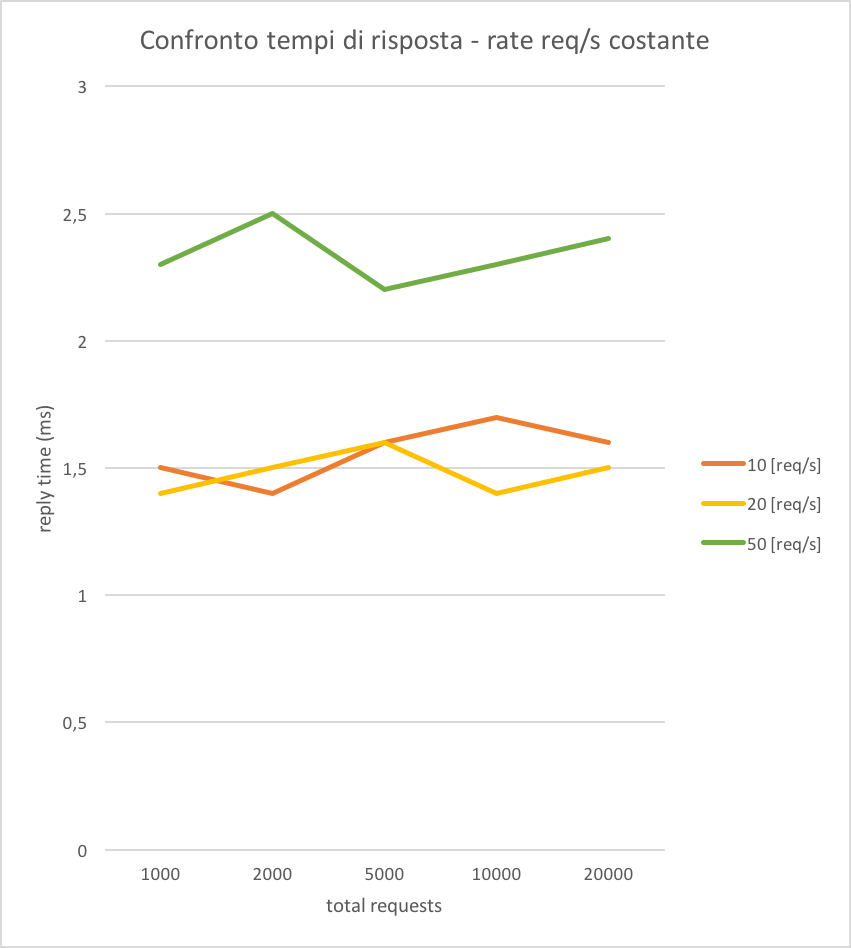
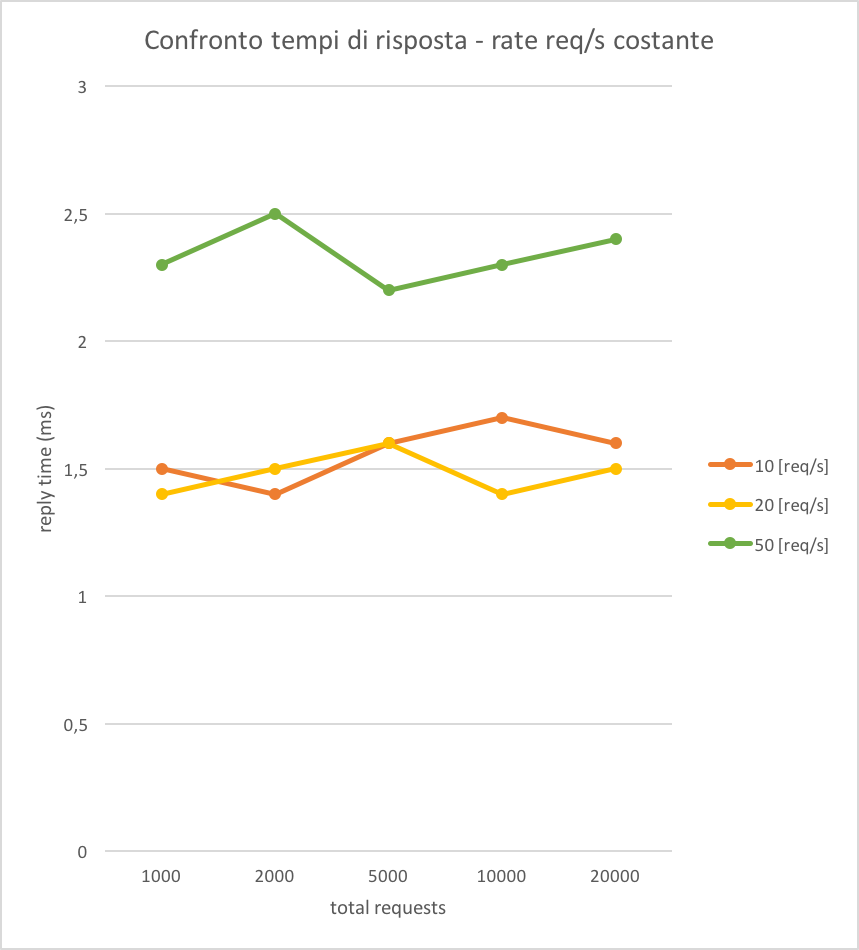
Modified some images: discrete values now are visualized. Also there has been some changes to the log.

diff --git a/code/web_switch/scheduler.c b/code/web_switch/scheduler.c
@@ -18,7 +18,7 @@ ServerPtr get_ready_server(RRobinPtr rrobin) {
 }
 
 ThrowablePtr apache_score(ServerNodePtr server) {
-    /*get_log()->d(TAG_SCHEDULER, "scoring routine...");*/
+    get_log()->d(TAG_SCHEDULER, "scoring routine...");
     // throwable aux variable
     ThrowablePtr throwable;
 
@@ -34,11 +34,11 @@ ThrowablePtr apache_score(ServerNodePtr server) {
     if (throwable->is_an_error(throwable)) {
         server->weight = WEIGHT_DEFAULT;
         server->status = SERVER_STATUS_BROKEN;
-        get_log()->d(TAG_SCHEDULER, "SERVER %s is DOWN", server->host_ip);
+        get_log()->i(TAG_SCHEDULER, "server %s is DOWN", server->host_ip);
         return throwable->thrown(throwable, "apache_score");
     } else {
         server->status = SERVER_STATUS_READY;
-        get_log()->d(TAG_SCHEDULER, "SERVER %s is UP", server->host_ip);
+        get_log()->i(TAG_SCHEDULER, "server %s is UP", server->host_ip);
     }
     
     // ... and parsing result
@@ -63,14 +63,14 @@ ThrowablePtr apache_score(ServerNodePtr server) {
             (WEIGHT_MAXIMUM - WEIGHT_DEFAULT)   /
             (TOTAL_WORKERS  - WEIGHT_DEFAULT)   +   WEIGHT_DEFAULT;
     server->weight = score;
-    /*get_log()->d(TAG_SCHEDULER, "[SCORE: %d (%s)]", score, server->host_ip);*/
+    get_log()->i(TAG_SCHEDULER, "[score: %d (%s)]", score, server->host_ip);
 
     return get_throwable()->create(STATUS_OK, NULL, "apache_score");
 }
 
 void *update_server_routine(void *arg) {
 
-    /*get_log()->d(TAG_SCHEDULER, "Scheduler update routine init...");*/
+    get_log()->d(TAG_SCHEDULER, "Scheduler update routine init...");
 
     // initiliazing throwable
     ThrowablePtr throwable;
@@ -95,7 +95,6 @@ void *update_server_routine(void *arg) {
     ServerNodePtr node;
     for(;;)
         if (time(NULL) - up_since > up_time) {
-            /*get_log()->d(TAG_SCHEDULER, "Scheduler update routine [UPDATING]");*/
             // initializing flag
             proceed = 0;
             // scanning across the serverpool
@@ -105,7 +104,6 @@ void *update_server_routine(void *arg) {
                 throwable = apache_score(node);
                 if (throwable->is_an_error(throwable)) {
                     get_log()->t(throwable);
-                    get_log()->d(TAG_SCHEDULER, "NODE STATUS %d", node->status);
                     if (node->status != SERVER_STATUS_BROKEN)
                         proceed -= 1;
                 }
@@ -118,7 +116,6 @@ void *update_server_routine(void *arg) {
 
             // if routine is not failed...
             if (proceed == 0) {
-                get_log()->d(TAG_SCHEDULER, "SCHEDULING...");
                 throwable = scheduler->rrobin->reset(scheduler->rrobin, scheduler->server_pool, scheduler->server_pool->num_servers);
                 if (throwable->is_an_error(throwable)) {
                     get_log()->t(throwable);
@@ -163,8 +160,6 @@ SchedulerPtr init_scheduler(int awareness_level) {
             get_throwable()->create(STATUS_ERROR, "Memory allocation error!", "init_scheduler");
             return NULL;
         }
-
-        get_log()->d(TAG_SCHEDULER, "Server n° %d Name %s, IP %s", i, server_config->servers_names[i], server_config->servers_ip[i]);
 
         node->host_address = server_config->servers_names[i];
         node->host_ip      = server_config->servers_ip[i];

diff --git a/code/web_switch/round_robin.c b/code/web_switch/round_robin.c
@@ -2,7 +2,6 @@
 
 // making a weighted scheduling discipline
 ThrowablePtr weight_servers(CircularPtr circular, Server *servers, int server_num) {
-    get_log()->d(TAG_ROUND_ROBIN, "WEIGHTING 1");
 
     // finding the sum for all the servers and sorting them
     int i, j;
@@ -27,8 +26,6 @@ ThrowablePtr weight_servers(CircularPtr circular, Server *servers, int server_nu
         return get_throwable()->create(STATUS_ERROR, "Memory allocation error!", "weight_servers");
     }
 
-    get_log()->d(TAG_ROUND_ROBIN, "WEIGHTING 2");
-
     // weighted pattern creation
     int w = 0;
     int s = 0;
@@ -37,7 +34,6 @@ ThrowablePtr weight_servers(CircularPtr circular, Server *servers, int server_nu
         // creating pattern taking each round weight times the server
         if ((servers + s)->weight > 0) {
             *(w_servers + w) = *(servers + s);
-            get_log()->d(TAG_ROUND_ROBIN, "WEIGHTING %s with status: %d", (w_servers+w)->ip, (w_servers+w)->status);
             // updating weight info
             (servers + s)->weight -= 1;
             if (++w == weight_sum)
@@ -80,7 +76,6 @@ ThrowablePtr reset_servers(RRobinPtr rrobin, ServerPoolPtr pool, int server_num)
         (servers + s)->ip      = node->host_ip     ;
         (servers + s)->weight  = node->weight      ;
         (servers + s)->status  = node->status      ;
-        get_log()->d(TAG_ROUND_ROBIN, "%d STATUS: %d from %d", s, (servers + s)->status, node->status);
         node = node->next;
     }
 
@@ -136,7 +131,7 @@ ServerPtr get_server(CircularPtr circular) {
         // if all machines are not available, then return BROKEN as status
         // and closing connection in the worker routine
         if (not_available == circular->buffer_len) {
-            get_log()->d(TAG_CIRCULAR, "ALL SERVERS ARE DOWN! - closing connection... now!");
+            get_log()->i(TAG_CIRCULAR, "ALL SERVERS ARE DOWN! - closing connection... now!");
             // returning server with status broken
             server_ready->status = SERVER_STATUS_BROKEN;
             break;

diff --git a/code/web_switch/watchdog.c b/code/web_switch/watchdog.c
@@ -24,7 +24,6 @@ ThrowablePtr detach_watchdog(WatchdogPtr watchdog) {
     watchdog->killer_time = (time_t) k_time;
     // setting up the execution time
     watchdog->timeout_worker = (time_t) out_time;
-    //get_log()->d(TAG_WATCHDOG, "\nWATCHDOG:\n-> timeout %d\n-> killer time %d\n\n", watchdog->timeout_worker, watchdog->killer_time);
     return get_throwable()->create(STATUS_OK, NULL, "detach_watchdog");;
 }
 
@@ -53,7 +52,6 @@ void *enable_watchdog(void *arg) {
         // setting req_time specifics
         req_time->tv_sec  = watchdog->killer_time / 1000000000;
         req_time->tv_nsec = (long) watchdog->killer_time;
-        //get_log()->d(TAG_WATCHDOG, "\nWATCHING %ld\n", time(NULL));
         while (TRUE) {
             sleep_status = nanosleep(req_time, rem_time);
             // upon not successfull complete nanosleep
@@ -65,7 +63,6 @@ void *enable_watchdog(void *arg) {
                     free(rem_time);
                     return NULL;
                 } else {
-                    //get_log()->d(TAG_WATCHDOG, "\nresetting at: %ld\n", rem_time->tv_nsec);
                     req_time->tv_nsec = rem_time->tv_nsec;
                 }
             }
@@ -89,11 +86,10 @@ void *enable_watchdog(void *arg) {
 int watch_over(WatchdogPtr watchdog, time_t running_timestamp, time_t current_timestamp) {
     // checking for timestamp distance and aborting thread if necessary
     time_t running_exec_time = current_timestamp - running_timestamp;
-    //get_log()->d(TAG_WATCHDOG, "\nWATCHING from: %ld \n-> elapsed: %ld\n", running_timestamp, running_exec_time);
     // we wait at least timeout_seconds + 1 before exiting the thread
     if (running_exec_time > watchdog->timeout_worker) {
         *watchdog->worker_await_flag = WATCH_OVER;
-        //get_log()->d(TAG_WATCHDOG, "\nWATCH OVER\n");
+        get_log()->d(TAG_WATCHDOG, "\nWATCH OVER\n");
         return WATCH_OVER;
     }
     else
